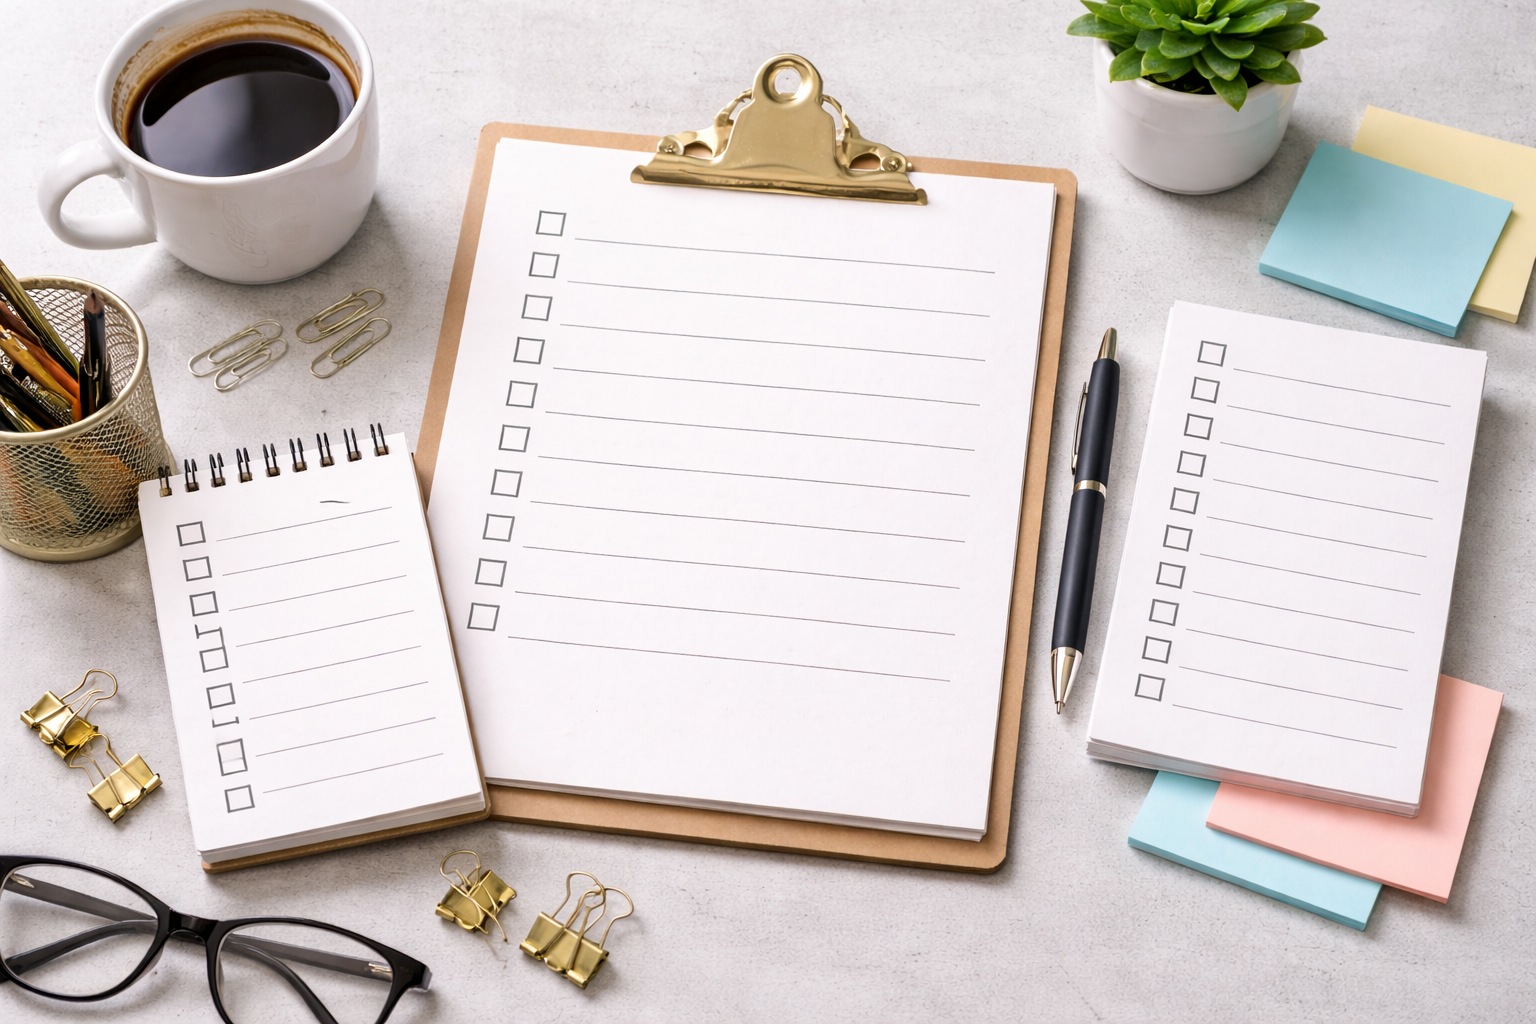
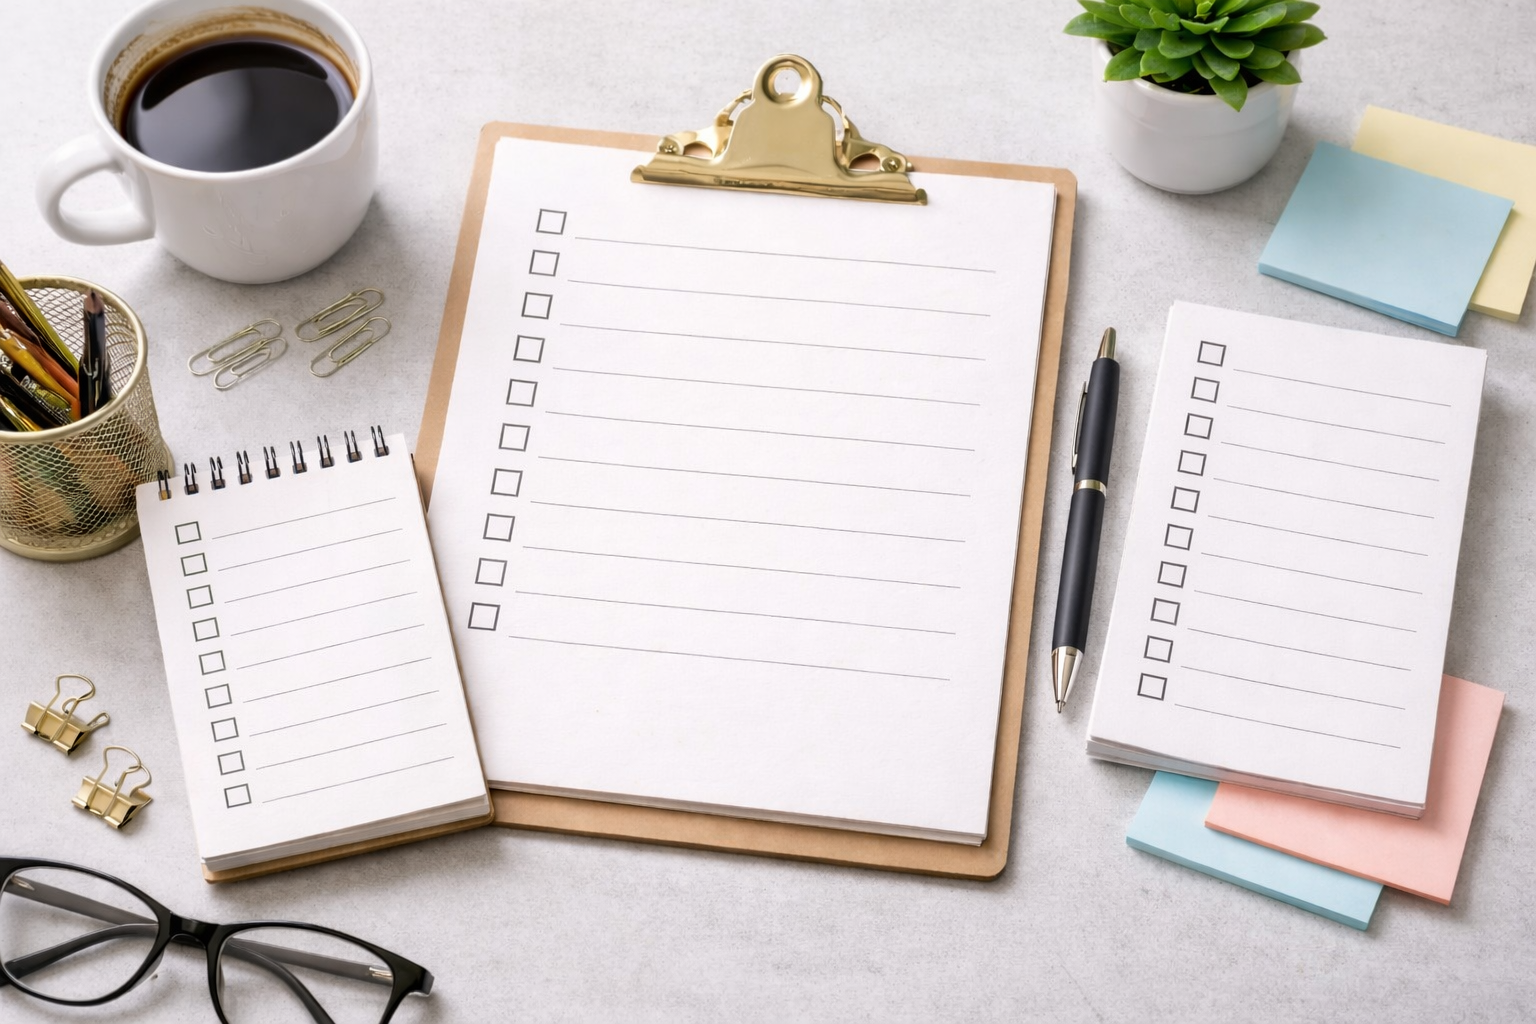
chore: clean up empty code change sections in the changes log

diff --git a/web/miniCycle.html b/web/miniCycle.html
@@ -180,7 +180,7 @@
     height: 100%;
     background:
       linear-gradient(135deg, rgba(76, 121, 255, 0.5), rgba(116, 192, 252, 0.45)),
-      url('assets/images/Stock/routine_list.png') center/cover no-repeat;
+      url('assets/images/Stock/Routine_Lists.webp') center/cover no-repeat;
     display: flex;
     flex-direction: column;
     justify-content: center;
@@ -228,7 +228,7 @@
     #app-loader {
       background:
         linear-gradient(135deg, rgba(76, 121, 255, 0.55), rgba(116, 192, 252, 0.5)),
-        url('assets/images/Stock/routine_list.png') left center/cover no-repeat;
+        url('assets/images/Stock/Routine_Lists.webp') left center/cover no-repeat;
     }
     .loader-logo {
       width: 100px;
